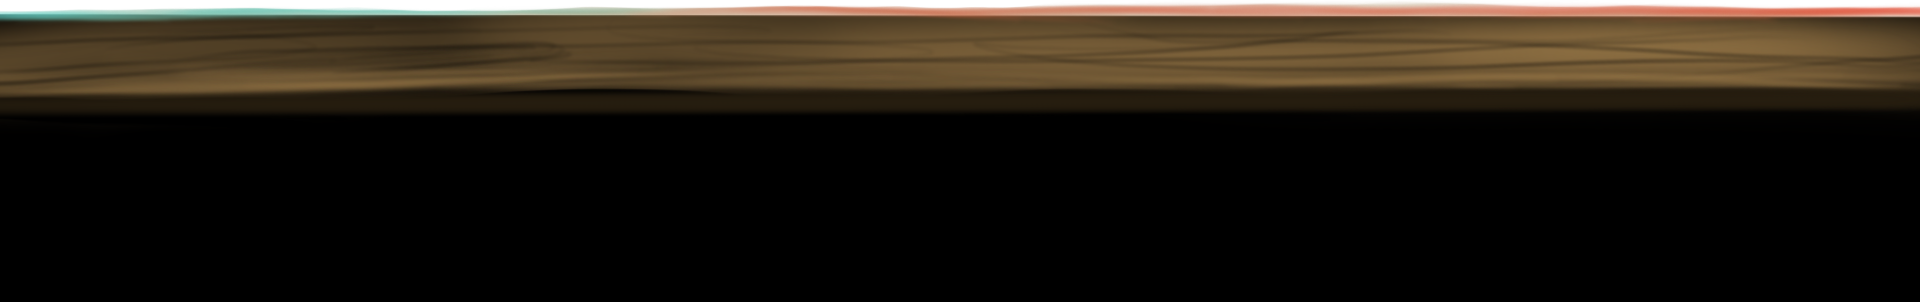
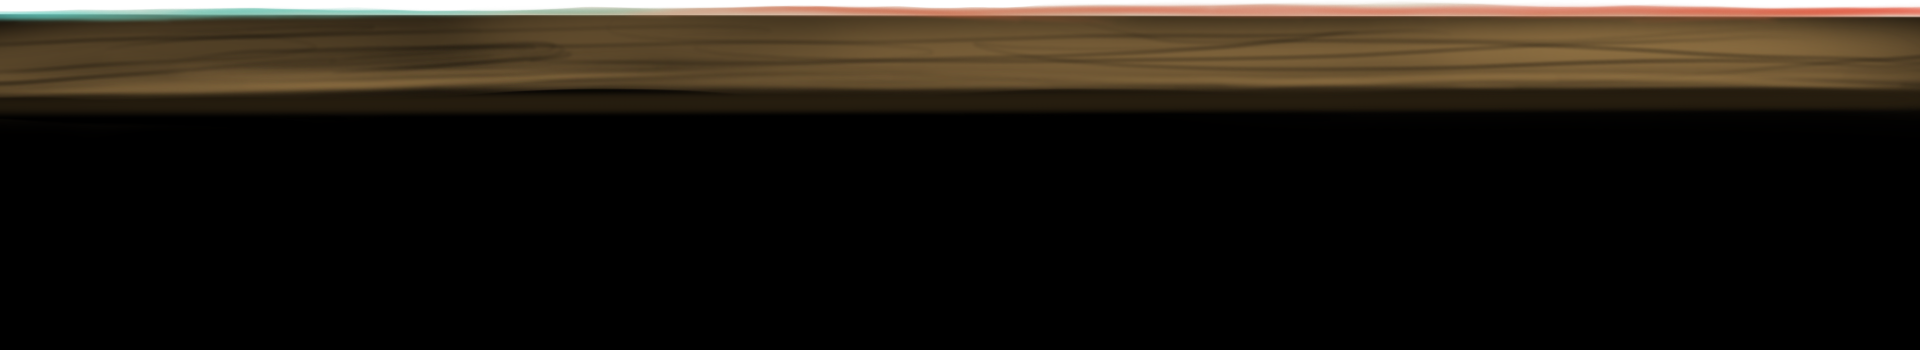
pushed bar up

diff --git a/src/components/Bar.vue b/src/components/Bar.vue
@@ -24,7 +24,7 @@
     left: 0px;
     bottom: 0px;
     width: 100%;
-    height: 28%;
+    height: 32%;
     background-image: url(../assets/images/bar.png);
     overflow: hidden;
   }
